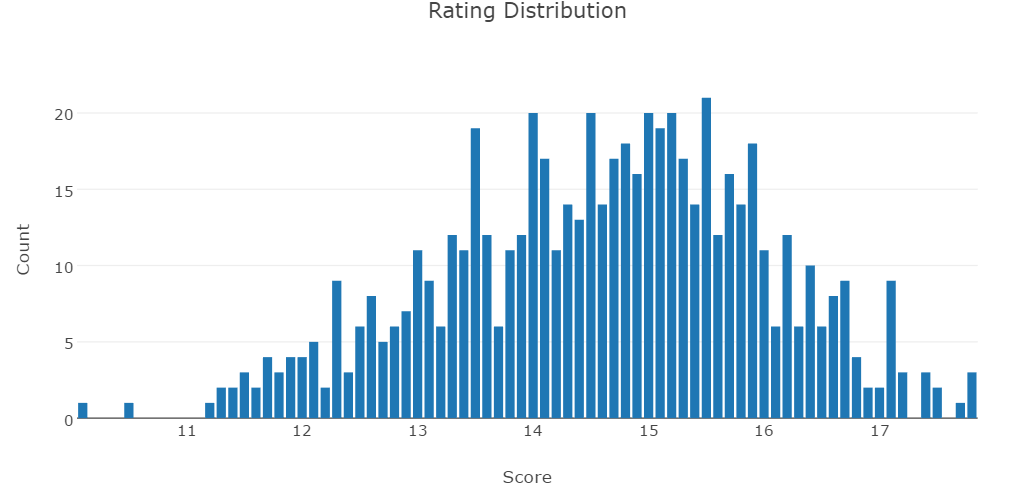
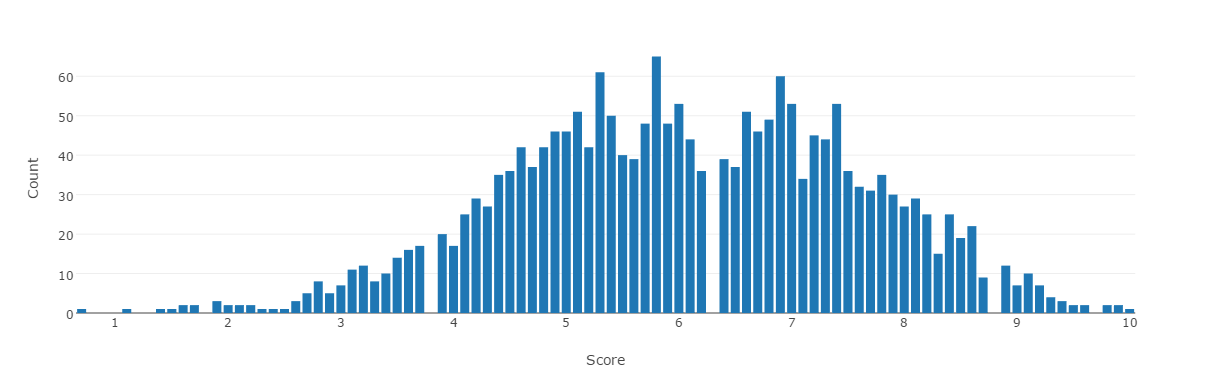
distribution image correction + small README fixes

diff --git a/README.md b/README.md
@@ -169,11 +169,11 @@ Sprednji del celotne aplikacije je spletna stran, ki nam omogoča načrtovanje i
 
 
 #### Pregled in filtriranje prenočišč
-Ob pritisku na gumb "Show" izbrani točki izleta se nam pokažejo vsa Airbnb prenočišča v njeni bližini, ki ustrezajo našim trenutno izbranim preferencam, urejena po oceni prebivališča (opisano zgoraj v 2.1 obdelava datotek - med 0 in 10). Če podatkov za izbrano mesto slučajno nimamo, se bodo prikazala prenočišča, ki so geografsko najbližje želeni potovalni destinaciji (in seveda ustrezajo našim preferencam). Nad seznam prebivališč narišemo še porazdelitev ocen, ki je načeloma normalna.  
+Ob pritisku na gumb "Show" izbrani točki izleta se nam pokažejo vsa Airbnb prenočišča v njeni bližini, ki ustrezajo našim trenutno izbranim preferencam, urejena po oceni prebivališča (opisano zgoraj v 2.1 obdelava datotek - med 0 in 10). Če podatkov za izbrano mesto slučajno nimamo, se bodo prikazala prenočišča, ki so geografsko najbližje željeni potovalni destinaciji (in seveda ustrezajo našim preferencam). Nad seznam prebivališč narišemo še porazdelitev ocen, ki je načeloma normalna.  
 ![Alt text](https://github.com/darkneess10/PR17_MV_JH/blob/master/img/distribution.png "Distribution")  
 
 Na zemljevid ob tem pogledu označimo vsa prenočišča z barvo odvisno od zadnje spremembe ocene. Torej, če ocena trenutno pada, je oznaka rdeče, če narašča, zelena, v primeru pa, da se ocena več časa ni spremenila, pa modro. Tukaj morda lahko opazimo majhne skupine, kjer se je ocena ali poslabšala ali pa poboljšala.  
-![Alt text](https://github.com/darkneess10/PR17_MV_JH/blob/master/img/groups.png "Groups")  
+![Alt text](https://github.com/darkneess10/PR17_MV_JH/blob/master/img/groups.png =600x400 "Groups")  
 
 Med pogledom seznama lahko preference spremenimo in tako se nam ob vsaki spremembi seznam osveži. Ker je prenočišč veliko je smiselno imeti vklopljeno preferenco "Show top 10", ki pokaže samo 10 najboljših prenočišč v okolici in nam tako zelo zoža izbiro. Na voljo so nam pa tudi preference, ki nam lahko olajšajo ali pocenijo potovanje.  
 
@@ -194,15 +194,15 @@ Min price (Spodnja meja cene na noč)
 Max price (Zgornja meja cene na noč)
 ```
 
-Tukaj največ prebivališč odstranita preferenci "Require breakfast" in "Require cable TV", saj večinonoma ne ponujajo že pripravljenega zajtrka, ampak kuhinjo, kjer si ga lahko skuhamo sami.  
+Tukaj največ prebivališč odstranita preferenci "Require breakfast" in "Require cable TV", saj večinonoma ne ponujajo že pripravljenega zajtrka, ampak kuhinjo, kjer si ga lahko skuhamo sami. Kabeljske televizije pa tudi nimajo vsi, ampak je po večini prenočišč na voljo vsaj navadna televizija.
 ![Alt text](https://github.com/darkneess10/PR17_MV_JH/blob/master/img/gui_top10_listings.png "Filtriran seznam prenočišč")  
 
 
 #### Pregled opisa prenočišča
-Na seznamu prebivališč lahko kliknemo na gumb "Show", ki prikaže dodatne informacije o prenočišču. Na vrhu vidimo povzetek iz prejšnje strani (ime, oceno, ceno/noč, razdaljo od centra mesta, čas potovanje iz centra mesta), pod njim pa graf ocene skozi čas (5 različnih datumov). Tukaj načeloma opazimo, da se ocene niso preveč spreminjale, ampak ponekod pa so tudi se. Iz redkejših primerov spremb ocene lahko sklepamo, da ocena morda ni stabilna. Opazimo lahko tudi trend ali ocena trenutko pada ali narašča (označeno s posebno barvo na zemljevidu - opisano pod pregledom in filtriranjem zgoraj).  
+Na seznamu prebivališč lahko kliknemo na gumb "Show", ki prikaže dodatne informacije o prenočišču. Na vrhu vidimo povzetek iz prejšnje strani (ime, oceno, ceno/noč, razdaljo od centra mesta, čas potovanje iz centra mesta), pod njim pa graf ocene skozi čas (5 različnih datumov). Tukaj načeloma opazimo, da se ocene skozi čas niso preveč spreminjale, ampak ponekod pa so tudi se. Iz redkejših primerov spremb ocene lahko sklepamo, da ocena morda ni stabilna. Opazimo lahko tudi trend ali ocena trenutko pada ali narašča (označeno s posebno barvo na zemljevidu - opisano pod pregledom in filtriranjem zgoraj).  
 ![Alt text](https://github.com/darkneess10/PR17_MV_JH/blob/master/img/score_over_time.png "Score over time")
 
-Pod grafom pa vidimo še sliko, ki jo je priložil ponudnik in pa kratek opis prenočišča. Če je to slikano od zunaj, lahko s pomočjo zemljevidov in funkcionalnosti Googlovega cestnega pogleda pogledamo kako se izgled prenočišča primerja s sliko (mogoče preveč zastarel pogled). Če pa se je ta v parih letih precej spremenila, pa lahko vidimo vsaj približno okolico, kjer bi se mogoče odločili prenočiti.  
+Pod grafom pa vidimo še sliko, ki jo je priložil ponudnik in pa kratek opis prenočišča. Če je to slikano od zunaj, lahko s pomočjo zemljevidov in funkcionalnosti Googlovega cestnega pogleda pogledamo kako se izgled prenočišča primerja s sliko, a je ta mogoče preveč zastarel. Če pa se je stavba v parih letih precej spremenila, pa lahko vidimo vsaj približno okolico, kjer bi se mogoče odločili prenočiti.  
 ![Alt text](https://github.com/darkneess10/PR17_MV_JH/blob/master/img/gui_description.png "Opis prenočišča")  
 
 
@@ -215,7 +215,7 @@ Pod grafom pa vidimo še sliko, ki jo je priložil ponudnik in pa kratek opis pr
 
 
 #### Implementacija
-Uporabimo spletne tehnologije Javascripta in PHPja (direktorij "web"). Za dodajanje točk izleta uporabimo Googlov API za določanje koordinat na zemljevidu in risanje samega zemljevida. Za risanje poti pa njihovo navigacijsko strežbo. Ob pritisku gumba za prikaz seznama prenočišč najprej geografsko izračunamo, katero mesto izmed tistih, ki so na voljo, je najbližje izbrani lokaciji in nato pošljemo v PHP skripto podatke o preferencah, kjer preberemo v direktoriju "src/City_Data_Attributes/mesto/" ("mesto" v direktoriju predstavlja ime najbližjega mesta, ki ga imamo med podatki) atribute potrebne za lociranje posameznega prenočišča na zemljevidu in pa vse podatke, ki jih pozneje pokažemo v aplikaciji, vključno z naslovoma majhne in velike slike prenočišča (datoteka "python/query.php"). 
+Uporabimo spletne tehnologije Javascripta in PHPja (direktorij "web"). Za dodajanje točk izleta uporabimo Googlov API za določanje koordinat na zemljevidu in risanje samega zemljevida. Za risanje poti pa njihovo navigacijsko strežbo. Ob pritisku gumba za prikaz seznama prenočišč najprej po geografski legi izračunamo, katero mesto izmed tistih, ki so na voljo, je najbližje izbrani lokaciji in nato pošljemo v PHP skripto podatke o preferencah, kjer preberemo v direktoriju "src/City_Data_Attributes/mesto/" ("mesto" v direktoriju predstavlja ime najbližjega mesta, ki ga imamo med podatki) atribute potrebne za lociranje posameznega prenočišča na zemljevidu in pa vse podatke, ki jih pozneje pokažemo v aplikaciji, vključno z naslovoma majhne in velike slike prenočišča (datoteka "python/query.php"). 
 
 
 ## 3. Zakjučno poročilo o opravljenem delu
